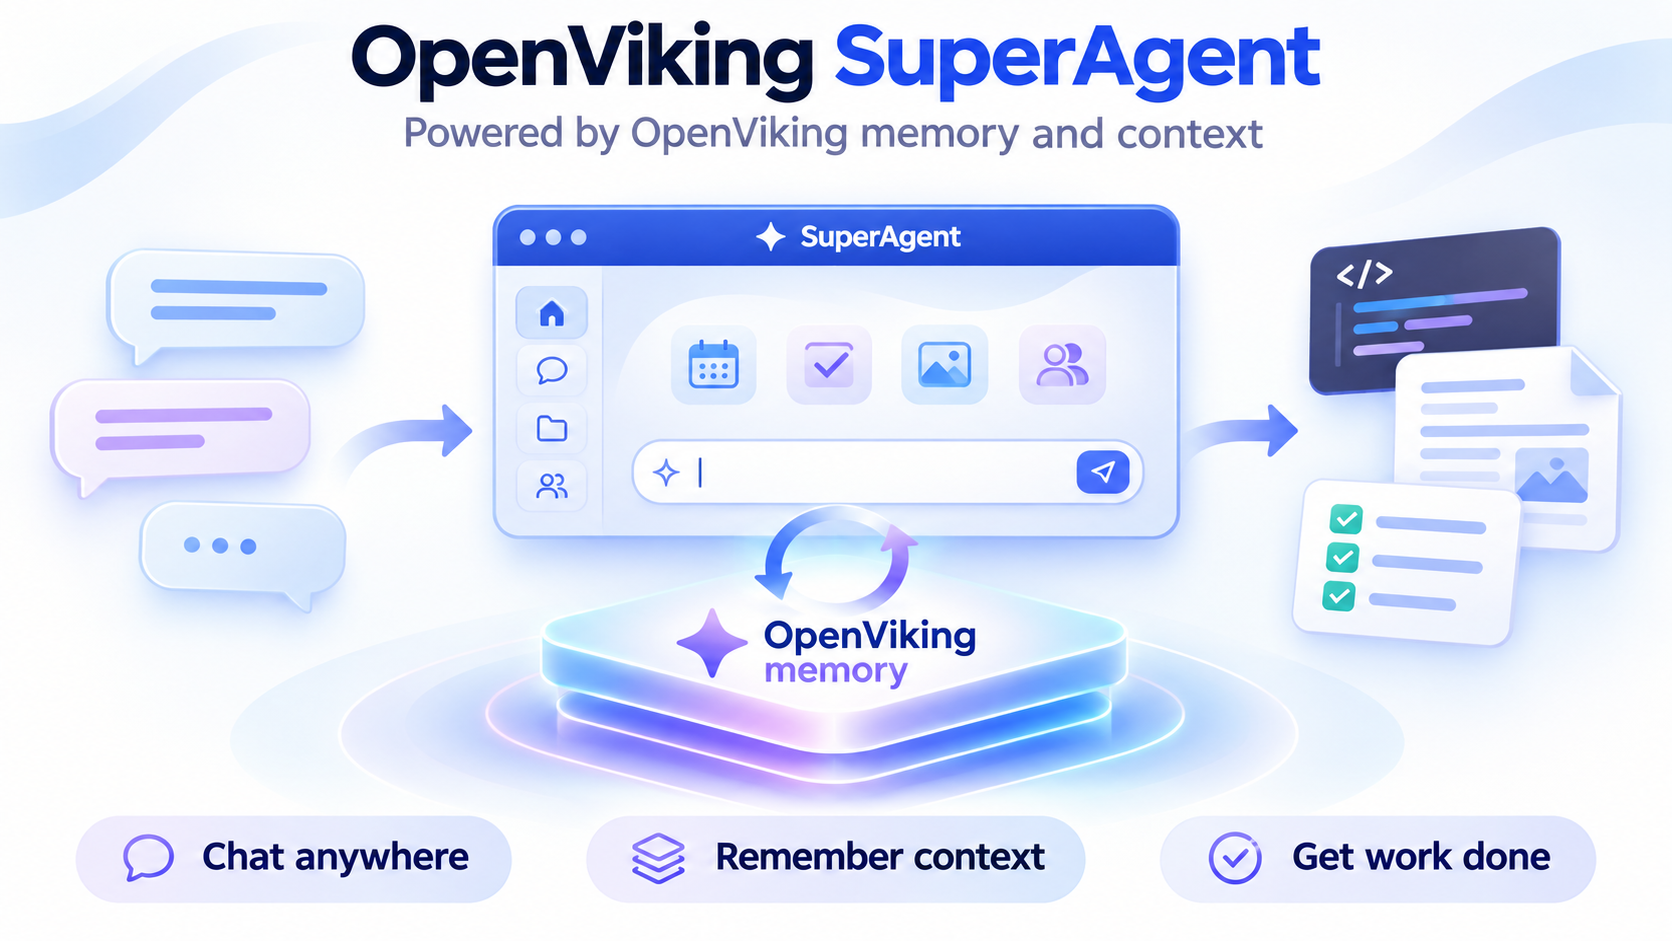
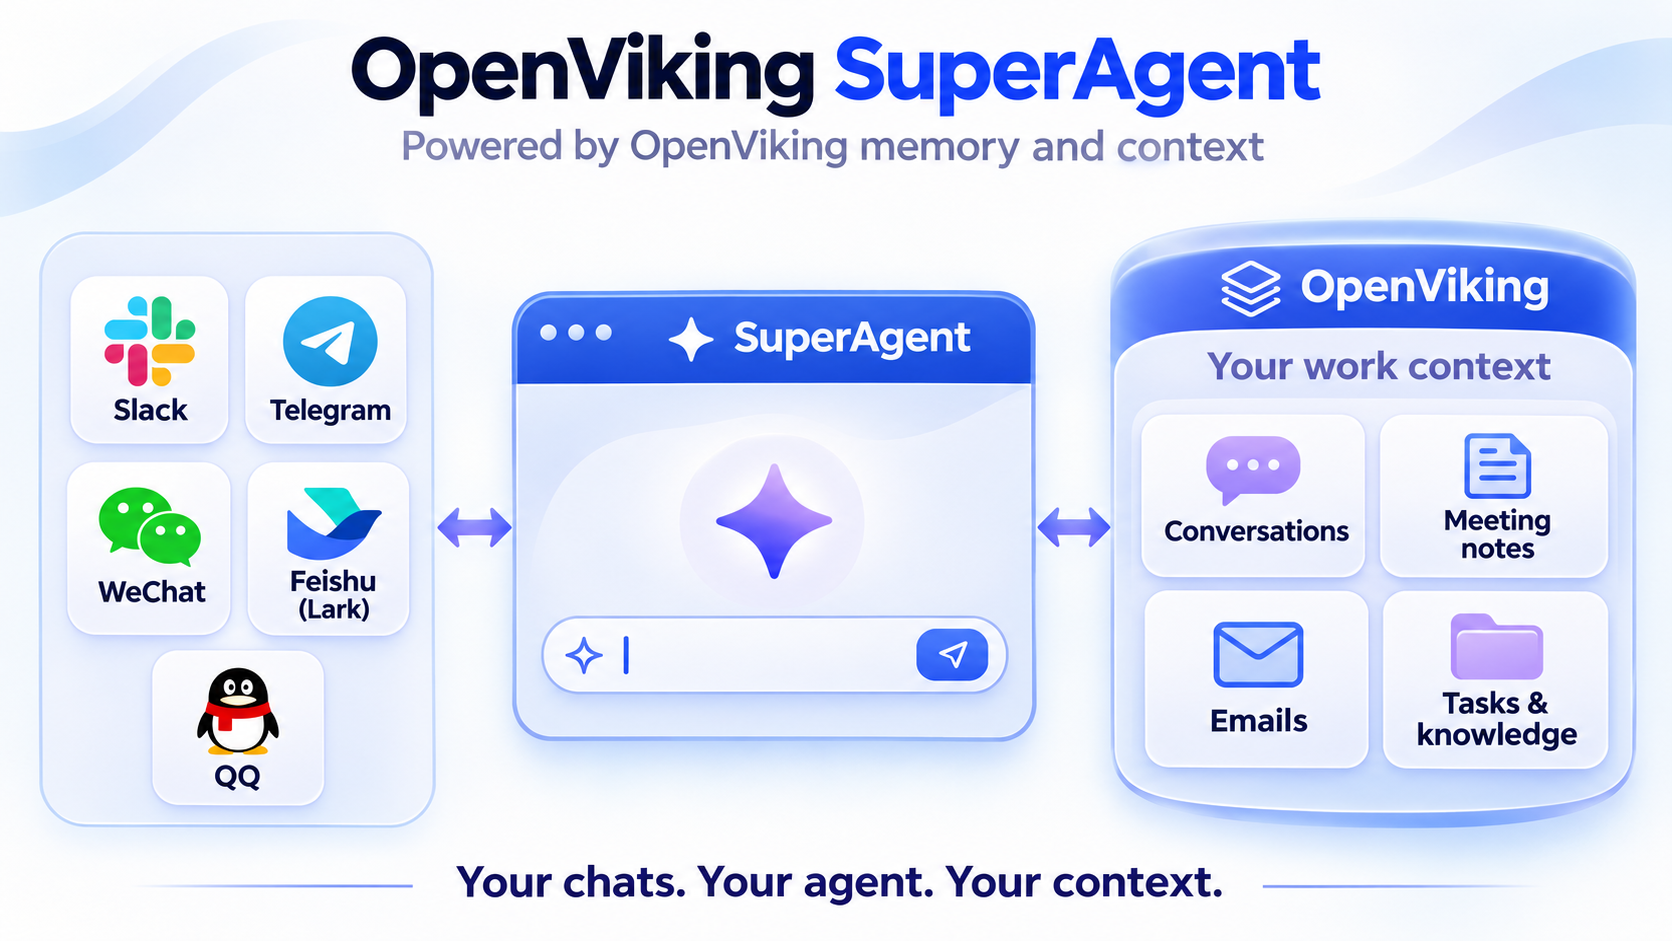
docs: illustrate SuperAgent connecting IM and OpenViking context

diff --git a/README.md b/README.md
@@ -326,7 +326,7 @@ Download:
 
 OpenViking SuperAgent brings a general-purpose agent into your everyday chats, with **OpenViking as its long-term memory and context foundation**. Connect your preferred agent runtime to Feishu/Lark, WeChat, Telegram, Slack, or QQ to research, write documents, work on code, and follow up on tasks across conversations and days.
 
-<img src="docs/images/superagent-overview.png" alt="OpenViking SuperAgent: chat anywhere, remember context with OpenViking, and get work done." width="100%" />
+<img src="docs/images/superagent-overview.png" alt="Messaging apps connect through SuperAgent to personal work context stored in OpenViking: conversations, meeting notes, emails, tasks and knowledge." width="100%" />
 
 Install on macOS or Linux:
 
